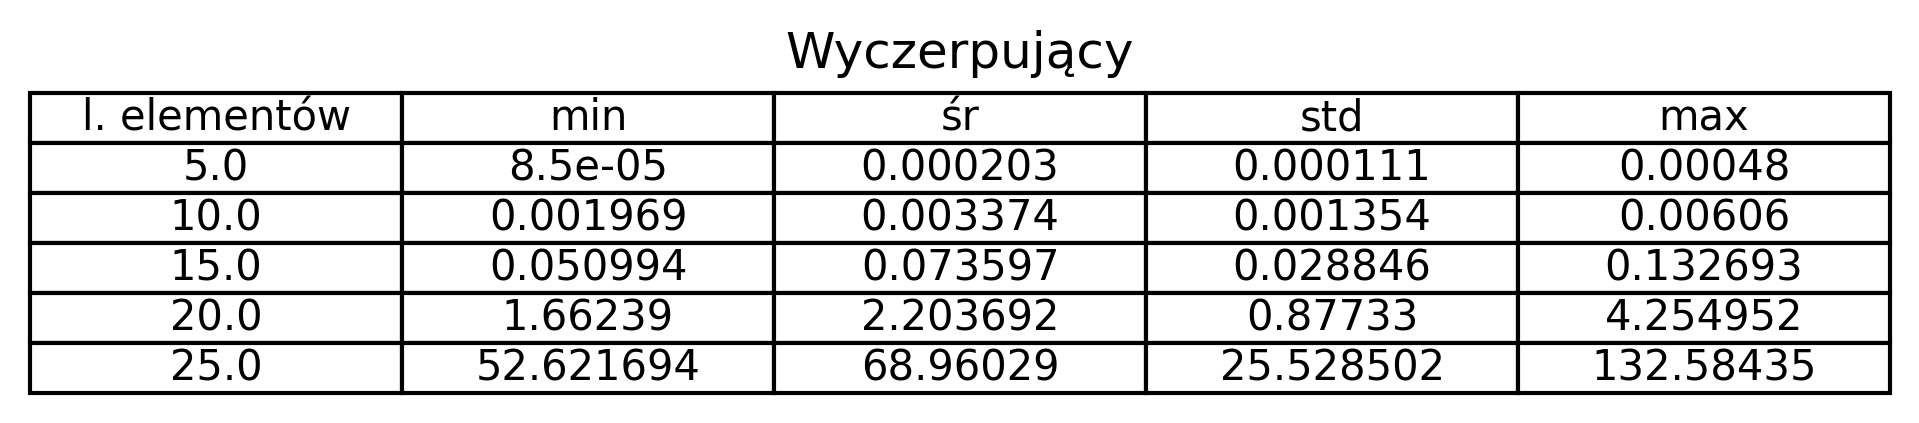
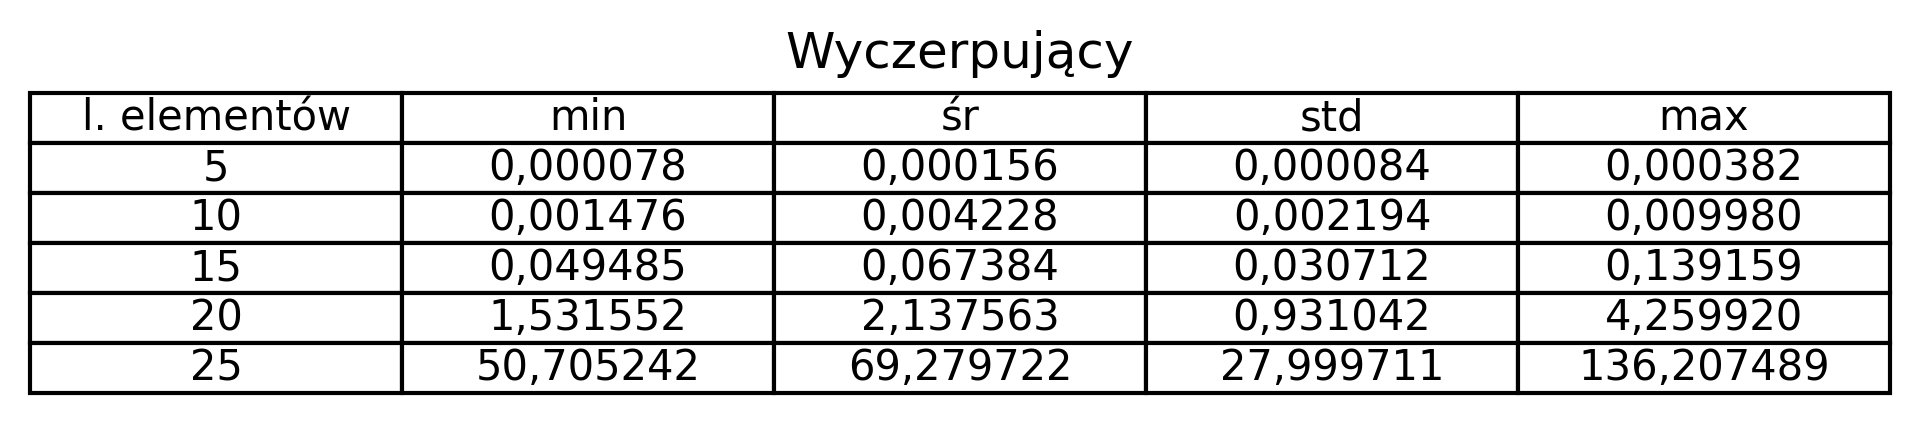
Updated table generation

diff --git a/cw1/knapsack.py b/cw1/knapsack.py
@@ -74,6 +74,7 @@ def run_simulation(element_count):
 
 
 def generate_table_files(filename, title, dataframe):
+    dataframe["l. elementów"] = dataframe["l. elementów"].astype(int)
     fig, ax = plt.subplots(figsize=(8, 1.3))
     ax.axis("tight")
     ax.axis("off")
@@ -86,6 +87,10 @@ def generate_table_files(filename, title, dataframe):
     plt.title(title)
     plt.savefig(f"tables/{filename}.png", bbox_inches="tight", dpi=300)
     plt.clf()
+
+
+def format_float_with_comma(value):
+    return f"{value:.6f}".replace(".", ",")
 
 
 def create_tables(element_counts, tries):
@@ -122,15 +127,15 @@ def create_tables(element_counts, tries):
                 times_h.append(result[0])
                 times_bf.append(result[1])
 
-        stats_h["min"].append(np.round(np.min(times_h), 6))
-        stats_h["śr"].append(np.round(np.mean(times_h), 6))
-        stats_h["std"].append(np.round(np.std(times_h), 6))
-        stats_h["max"].append(np.round(np.max(times_h), 6))
+        stats_h["min"].append(format_float_with_comma(np.min(times_h)))
+        stats_h["śr"].append(format_float_with_comma(np.mean(times_h)))
+        stats_h["std"].append(format_float_with_comma(np.std(times_h)))
+        stats_h["max"].append(format_float_with_comma(np.max(times_h)))
 
-        stats_bf["min"].append(np.round(np.min(times_bf), 6))
-        stats_bf["śr"].append(np.round(np.mean(times_bf), 6))
-        stats_bf["std"].append(np.round(np.std(times_bf), 6))
-        stats_bf["max"].append(np.round(np.max(times_bf), 6))
+        stats_bf["min"].append(format_float_with_comma(np.min(times_bf)))
+        stats_bf["śr"].append(format_float_with_comma(np.mean(times_bf)))
+        stats_bf["std"].append(format_float_with_comma(np.std(times_bf)))
+        stats_bf["max"].append(format_float_with_comma(np.max(times_bf)))
 
         print(f"finished {element_count}")
 
@@ -155,4 +160,4 @@ if __name__ == "__main__":
 
     # print("{0:02f}s".format(timeit.timeit(lambda: knapsack_brute_force(weights, values, M), number=1)))
 
-    create_tables([5, 10, 15, 20, 25], 30)
+    create_tables([5, 10, 15, 20, 25], 50)
